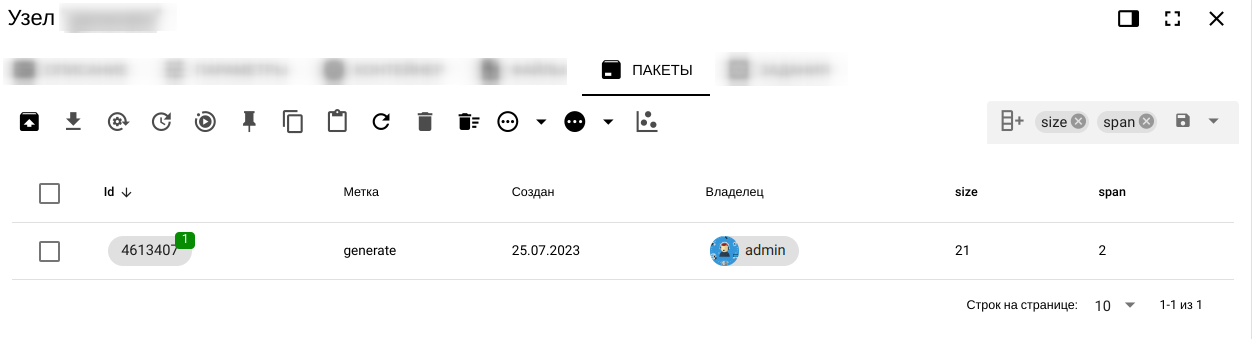
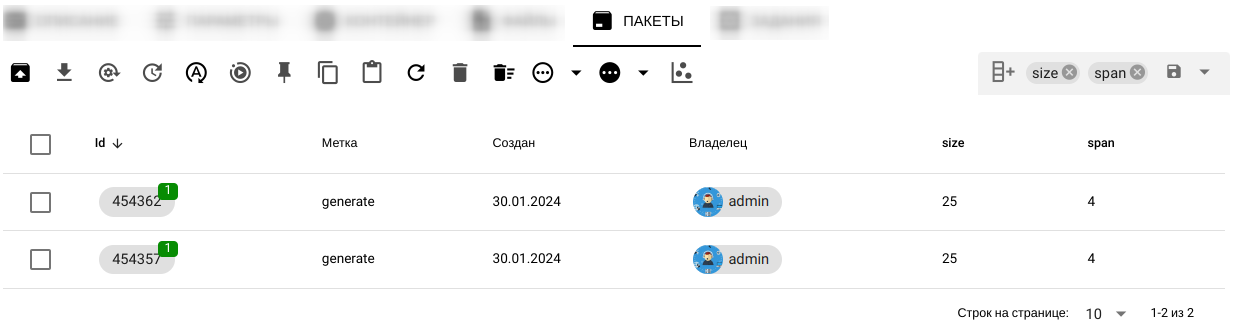
Add restart all packages/jobs info

diff --git a/src/desc/nodes.md b/src/desc/nodes.md
@@ -193,13 +193,13 @@ Cтруктура:
   Знак <span class="iconify-inline" data-icon="mdi-lock"/> появляется если к узлу подключен [секрет][11], типа ["Загрузка образов"][12], то есть если необходимо подключение к приватному Докер реестру.
 
   ::: tip <span class="iconify" data-icon="mdi:information" style="color: #42b983; font-size: 24px;"/>
-  Все типы политик, кроме типа "Исполнитель", соответствуют стандартным [политикам](https://kubernetes.io/concepts/containers/images/#image-pull-policy) Kubernetes. 
+  Все типы политик, кроме типа "Исполнитель", соответствуют стандартным [политикам](https://kubernetes.io/concepts/containers/images/#image-pull-policy) Kubernetes.
   :::
 
   ::: warning <span class="iconify" data-icon="emojione-v1:warning" style="color: #e7c000; font-size: 24px;"/>
   Рекомендуемая политика по умолчанию "При отсутствии". Временное переключение на политику "Всегда" необходимо при обновлении используемого образа (образ обновляется только на том узле, на котором выполняется задание с указанной политикой).
 
-  При постоянном использовании политики "Всегда" без промежуточного кеширующего прокси возможно превышение лимитов на доступ к регистру хранения (лимиты определяются самими регистром, например, для [Dockerhub](https://hub.docker.com/) задаются следущие [лимиты](https://docs.docker.com/docker-hub/download-rate-limit/)). 
+  При постоянном использовании политики "Всегда" без промежуточного кеширующего прокси возможно превышение лимитов на доступ к регистру хранения (лимиты определяются самими регистром, например, для [Dockerhub](https://hub.docker.com/) задаются следущие [лимиты](https://docs.docker.com/docker-hub/download-rate-limit/)).
   :::
 
 - <span class="iconify-inline" data-icon="mdi:speedometer-medium"  style="color: orange"/> - Приоритет, приоритет выполнения заданий.
@@ -297,6 +297,7 @@ Cтруктура:
 - <span class="iconify-inline" data-icon="mdi:package-up"/> Загрузка/создание пакета
 - <span class="iconify-inline" data-icon="mdi:download"/> Скачать выделенные пакеты
 - <span class="iconify-inline" data-icon="mdi:cog-clockwise"/> Обработать выделенные пакеты
+- <span class="iconify-inline" data-icon="mdi:refresh-auto"/> Перезапустить все пакеты
 - <span class="iconify-inline" data-icon="mdi:update"/> Использовать выделенные пакеты для запуска [заданий-инициаторов][8] (запуск заданий по расписанию)
 - <span class="iconify-inline" data-icon="mdi:motion-play"/> Обработать выделенные задания в интерактивном режиме
 - <span class="iconify-inline" data-icon="mdi:pin"/>/<span class="iconify-inline" data-icon="mdi:pin-off" style="color: red"/> Выбор/Отмена выбора установки мастер пакета слоя данных
@@ -354,7 +355,7 @@ Cтруктура:
 
 - Активировать - активация фильтра
 - Тип операции - выбор типа проверки количества заданий по отношению к указанному значению в поле "Количество заданий".
-- Количество заданий 
+- Количество заданий
 
 #### Фильтр по спецификации
 
@@ -416,7 +417,7 @@ Cтруктура:
       <span class='iconify-inline' data-icon='mdi:view-grid'/> <small style="padding: 4px">1 x 2</small>
     </span> Выбор размера сетки отображения файлов
 
-    > Для изменения размерности сетки требуется щелкнуть по столбцу соответствующего измерения 
+    > Для изменения размерности сетки требуется щелкнуть по столбцу соответствующего измерения
 
   - <span class='iconify-inline' data-icon='mdi:file-table-box-multiple-outline'/> Кнопка с списком фильтров файлов :
     - <span class='iconify-inline' data-icon='mdi:file-table-box-multiple-outline'/> Группировка по родительским пакетам (по умолчанию)
@@ -500,6 +501,7 @@ Cтруктура:
 - <span class="iconify-inline" data-icon="mdi:download"/> Скачать выделенные задания
 - <span class="iconify-inline" data-icon="mdi:cog-clockwise"/> Перезапустить выделенные задания
 - <span class="iconify-inline" data-icon="mdi:motion-play"/> Перезапустить выделенные задания в интерактивном режиме
+- <span class="iconify-inline" data-icon="mdi:refresh-auto"/> Перезапустить все задания
 - <span class="iconify-inline" data-icon="mdi:reload-alert"/> Перезапустить ошибочные задания
 - <span class="iconify-inline" data-icon="mdi:play-pause"/> Поставить на паузу или активировать [задание-инициатор][8]
 - <span class="iconify-inline" data-icon="mdi:refresh"/> Обновления списка
